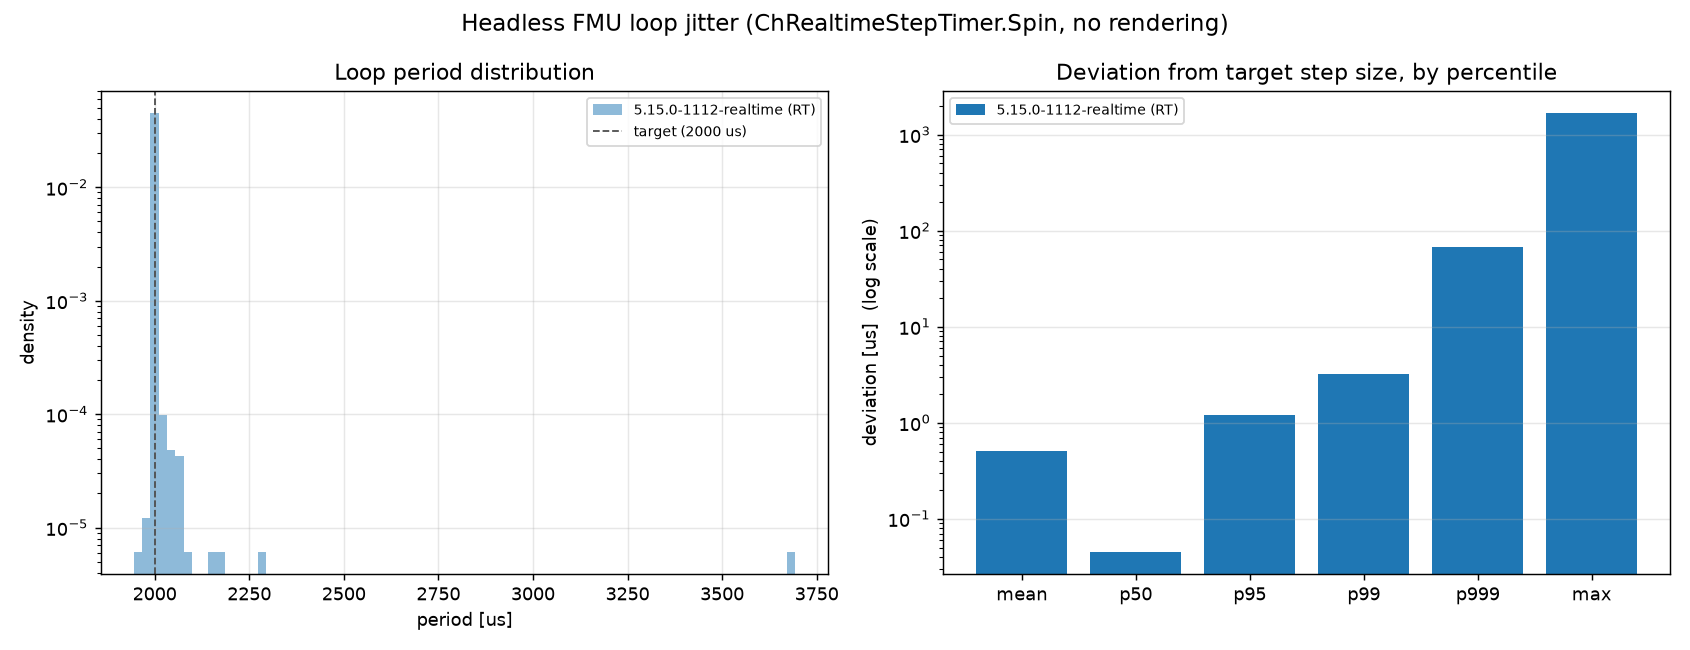
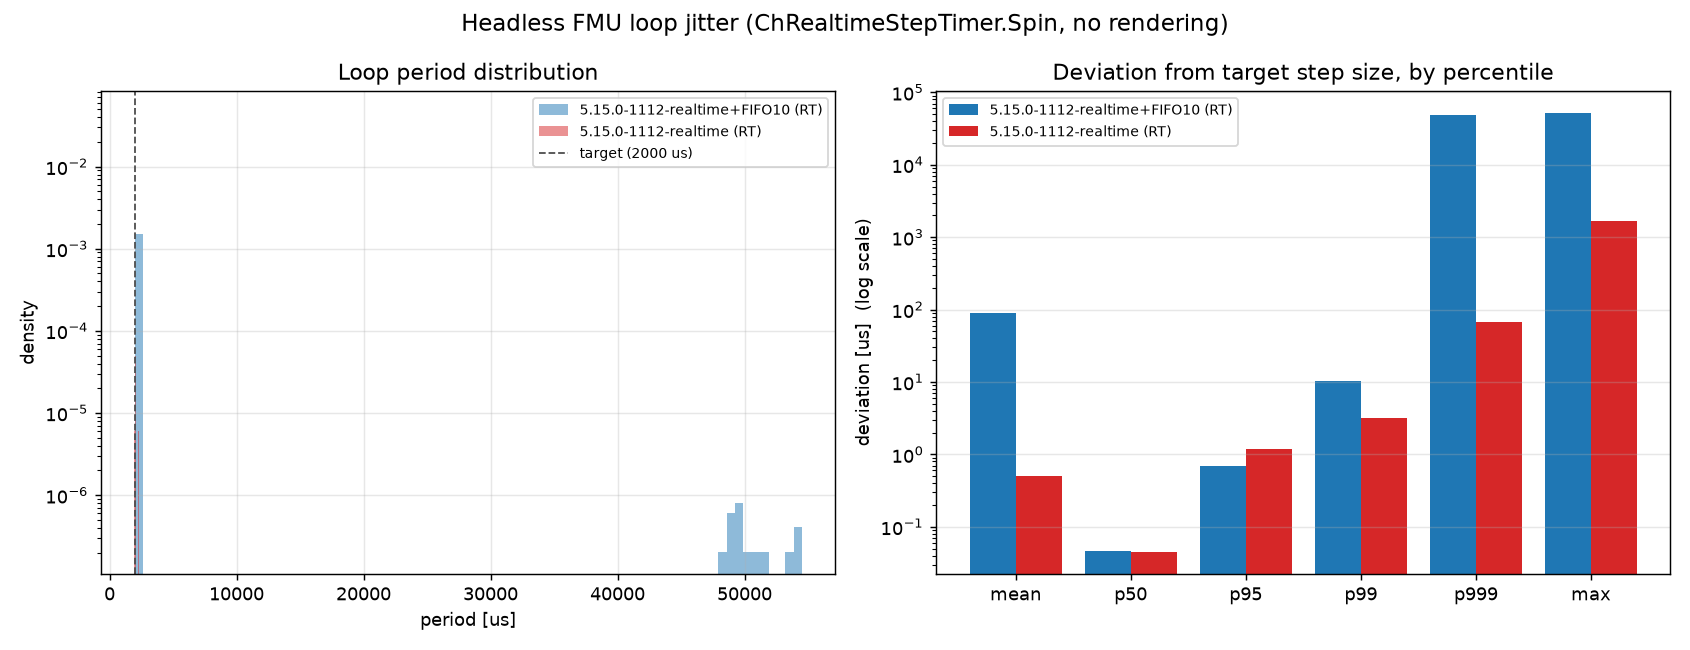
Add --sched fifo to benchmark_rt_jitter.py: process RT priority without a reboot
Separate from the kernel-level PREEMPT_RT vs generic comparison (which
needs a reboot), a process's own scheduling policy (SCHED_OTHER vs
SCHED_FIFO) can be toggled instantly via os.sched_setscheduler() -- this
account already has an rtprio ulimit of 99, so no root needed.

Counterintuitive result on the same RT kernel: SCHED_FIFO prio=10 made
the typical case (p50/p95) as good or slightly better than SCHED_OTHER,
but made the tail dramatically worse -- p999 +47.8ms and max +52.5ms
(vs +66.9us / +1.7ms for SCHED_OTHER), with 14 iterations (0.187%)
exceeding 2x the target period. Likely explanation: this is a shared
interactive desktop (GNOME Shell, browser, etc. all running), not an
isolated RT rig, so a bare priority-10 FIFO process still contends with
other system threads -- real RT deployments pair SCHED_FIFO with core
isolation (isolcpus/taskset), which this doesn't attempt.

Claude-Session: https://claude.ai/code/session_01UULNnKKARJpjHeGbdgzYdT

diff --git a/fmu/benchmark_rt_jitter.py b/fmu/benchmark_rt_jitter.py
@@ -18,8 +18,21 @@ the other kernel, run it again, and then compare both with
 plot_rt_comparison.py -- across a reboot, so nothing here keeps a live
 process running or does the reboot itself.
 
+There are actually two independent "RT" toggles:
+  - the KERNEL itself (PREEMPT_RT vs generic) -- needs a reboot to switch.
+  - this PROCESS's scheduling policy (SCHED_OTHER, the normal
+    time-shared default, vs SCHED_FIFO, a fixed-priority real-time
+    class) -- switchable instantly with no reboot via --sched, using
+    os.sched_setscheduler(). Needs either root or an rtprio ulimit (this
+    account already has one: `ulimit -r` -> 99).
+--sched fifo makes sense on either kernel, so results are tagged with
+both kernel and scheduling policy (e.g. "5.15.0-1112-realtime+FIFO"),
+and plot_rt_comparison.py will happily overlay all four combinations if
+you collect them.
+
 Run:
-    python benchmark_rt_jitter.py                  # ~10s, saves rt_results/<kernel>.json
+    python benchmark_rt_jitter.py                  # ~10s, SCHED_OTHER, saves rt_results/<kernel>.json
+    python benchmark_rt_jitter.py --sched fifo      # same kernel, SCHED_FIFO priority instead
     python benchmark_rt_jitter.py --sim-time 20
 """
 import argparse
@@ -64,10 +77,25 @@ def main():
     parser.add_argument("--step-size", type=float, default=2e-3)
     parser.add_argument("--label", default=None,
                          help="override the auto-detected kernel label used for the output filename")
+    parser.add_argument("--sched", choices=["other", "fifo"], default="other",
+                         help="'other' (default): normal time-shared scheduling. "
+                              "'fifo': elevate this process to SCHED_FIFO real-time priority "
+                              "(no reboot needed, but needs root or an rtprio ulimit).")
+    parser.add_argument("--rt-priority", type=int, default=10,
+                         help="SCHED_FIFO priority 1-99 (only used with --sched fifo)")
     args = parser.parse_args()
 
     if not os.path.exists(args.fmu):
         raise SystemExit(f"{args.fmu} not found -- build it first with pythonfmu build")
+
+    if args.sched == "fifo":
+        try:
+            os.sched_setscheduler(0, os.SCHED_FIFO, os.sched_param(args.rt_priority))
+        except PermissionError as e:
+            raise SystemExit(
+                f"Could not set SCHED_FIFO ({e}). Needs root, or an rtprio ulimit "
+                f"(check: ulimit -r)."
+            )
 
     import pychrono as chrono
     fmu, vr = make_fmu_instance(args.fmu)
@@ -92,9 +120,13 @@ def main():
 
     periods_sorted = sorted(periods)
     target = args.step_size
+    kernel_label = args.label or platform.uname().release
+    if args.sched == "fifo":
+        kernel_label += f"+FIFO{args.rt_priority}"
     stats = {
-        "kernel": args.label or platform.uname().release,
+        "kernel": kernel_label,
         "is_realtime_kernel": os.path.exists("/sys/kernel/realtime"),
+        "sched_policy": args.sched,
         "step_size": target,
         "n_samples": len(periods),
         "mean": sum(periods) / len(periods),
@@ -107,7 +139,8 @@ def main():
         "periods": periods,  # full trace, for histogram plotting
     }
 
-    print(f"kernel: {stats['kernel']}  (PREEMPT_RT: {stats['is_realtime_kernel']})")
+    print(f"kernel: {platform.uname().release}  (PREEMPT_RT kernel: {stats['is_realtime_kernel']})  "
+          f"process sched: {'SCHED_FIFO prio=' + str(args.rt_priority) if args.sched == 'fifo' else 'SCHED_OTHER'}")
     print(f"target loop period: {target * 1e6:.0f} us   n={stats['n_samples']}")
     for k in ("mean", "min", "p50", "p95", "p99", "p999", "max"):
         dev = (stats[k] - target) * 1e6
